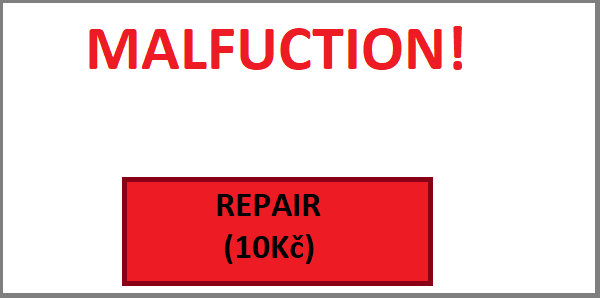
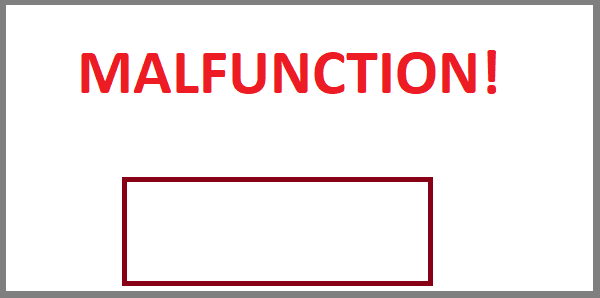
Malfucition feature - 1/3 done

Changed region(s): [[0.0, 0.0, 1.0, 0.9966], [0.12, 0.0906, 0.84, 0.3322]]

diff --git a/main.py b/main.py
@@ -20,6 +20,7 @@ Background = pygame.image.load('Images/Game background.jpg')
 Icon = pygame.image.load('Images/Game icon.jpg')
 Lcup_load = pygame.image.load('Images/Lcup.png')
 Scup_load = pygame.image.load('Images/Scup.png')
+Malfuction_image = pygame.image.load('Images/Malfuction.png') 
 Flashlight_size = 25
 Flashlight_off_colour = (0, 102, 0)
 Flashlight_on_colour = (0, 255, 0)
@@ -80,8 +81,9 @@ Maker_Down_L = False
 Miliseconds_S = 1000
 Maker_UP = pygame.USEREVENT + 1
 MAKER_UPP = False 
-
-
+Money = 999
+Malfuction_message = 'Something'
+Malfuction_show = True 
 #Window creation
 window = pygame.display.set_mode((Resolution_X, Resolution_Y))
 pygame.display.set_caption('Vending machine game')
@@ -92,7 +94,13 @@ FPSclock = pygame.time.Clock()
 
 #subprograms
  
-    
+def Malfuction():
+    window.blit(Malfuction_image, (1050, 350)) 
+    pygame.draw.rect(window, Red,(1177, 532, 301, 99))
+    Repair_message = my_font.render('Repair', False, (0, 0, 0))
+    window.blit(Repair_message, (1275,550))
+    Repair_cost = my_font.render('(10Kč)', False, (0, 0, 0))
+    window.blit(Repair_cost, (1275, 580))
 
 
 
@@ -113,12 +121,24 @@ while True:
     
     #Background
     window.blit(Background, (0, 0))
-    
- 
+        
 
-  
     
-  
+    if Malfuction_show == True:
+        window.blit(Malfuction_image, (1050, 350))
+        pygame.draw.rect(window, Red,(1177, 532, 301, 99))
+        Repair_message = my_font.render('Repair', False, (0, 0, 0))
+        window.blit(Repair_message, (1275,550))
+        Repair_cost = my_font.render('(10Kč)', False, (0, 0, 0))
+        window.blit(Repair_cost, (1275, 580))
+    if event.type == pygame.MOUSEBUTTONDOWN and Malfuction_show == True:
+        mpos = pygame.mouse.get_pos()
+        if 1177 < mpos[0] < 1478 and 532 < mpos[1] < 631:
+            if Money > 10:
+                Malfuction_show = False 
+                
+                
+    
     
     #Selected drink indicator
     Flashing_light1 = pygame.draw.ellipse(window, Flashlight_off_colour , (1719, 268, Flashlight_size, Flashlight_size))
@@ -562,13 +582,7 @@ while True:
             if Make_BY <= 300:
                 MAKER_UPP = False 
                 
-    
-
-       
-    
-        
-            
-            
+               
     if Maker_Down_L == True:
         if Make_BY <= 412:
             Make_BY += Makerspeed
@@ -584,7 +598,11 @@ while True:
         if Make_BY >= 300:
             Make_BY -= Makerspeed
             if Make_BY <= 300:
-                MAKER_UPP = False 
+                MAKER_UPP = False
+                
+                
+                
+                al
     
     
          
